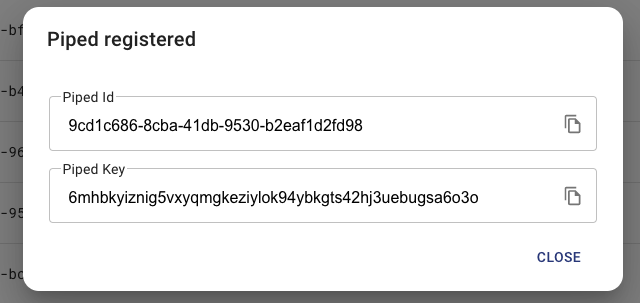
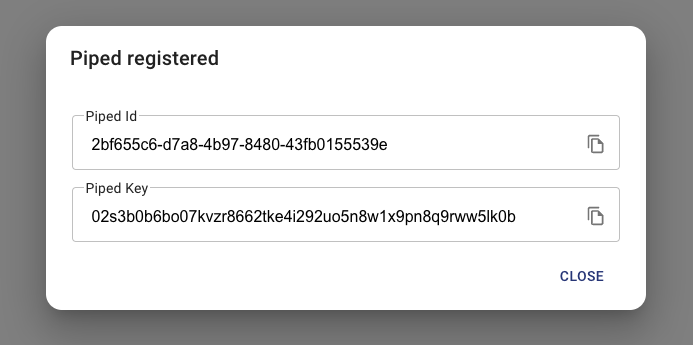
Docs for quickstart

Changed region(s): [[0.0, 0.0, 1.0, 0.9802]]

diff --git a/docs/content/en/docs-dev/quickstart/_index.md b/docs/content/en/docs-dev/quickstart/_index.md
@@ -11,35 +11,41 @@ This page is a guideline for installing PipeCD into your Kubernetes cluster and 
 Note: It's not required to install the PipeCD control plane to the cluster where your applications are running. Please read this [blog post](/blog/2021/12/29/pipecd-best-practice-01-operate-your-own-pipecd-cluster/) to understand more about PipeCD in real life use cases.
 
 ### Prerequisites
-- Having a Kubernetes cluster
-- Installed [kubectl](https://kubernetes.io/docs/tasks/tools/install-kubectl/) and [Helm](https://helm.sh/docs/intro/install/) (3.8.0 or later)
+- Having a Kubernetes cluster and connect to it via [kubectl](https://kubernetes.io/docs/tasks/tools/install-kubectl/).
 - Forked the [Examples](https://github.com/pipe-cd/examples) repository
 
-### 1. Installing control plane
+### 1. Installing PipeCD client
+
+The official PipeCD client named `pipectl` can be installed using the following command
 
 ``` console
-helm install pipecd oci://ghcr.io/pipe-cd/chart/pipecd --version {{< blocks/latest_version >}} \
-  --namespace pipecd --create-namespace \
-  --values https://raw.githubusercontent.com/pipe-cd/pipecd/{{< blocks/latest_version >}}/quickstart/control-plane-values.yaml
+OS="darwin" # or "linux"
+curl -Lo ./pipectl https://github.com/pipe-cd/pipecd/releases/download/{{< blocks/latest_version >}}/pipectl_{{< blocks/latest_version >}}_${OS}_amd64
 ```
 
-Once installed, use `kubectl port-forward` to expose the web console on your localhost:
+Then make the pipectl binary executable
 
 ``` console
-kubectl -n pipecd port-forward svc/pipecd 8080
+chmod +x ./pipectl
 ```
 
-The PipeCD web console will be available at [http://localhost:8080](http://localhost:8080). To login, you can use the configured static admin account as below:
-- project name: `quickstart`
+### 2. Installing PipeCD's component with pipectl
+
+We can simply use __pipectl quickstart__ command to start the PipeCD installation process and follow the instruction
+
+```console
+./pipectl quickstart --version {{< blocks/latest_version >}}
+```
+
+Follow the instruction, the PipeCD control plane will be available at [http://localhost:8080](http://localhost:8080) and pipectl command will open the PipeCD console automatically on your browser.
+
+To login, you can use the configured static admin account as below:
 - username: `hello-pipecd`
 - password: `hello-pipecd`
 
-![](/images/quickstart-login.png)
+![](/images/quickstart-login-form.png)
 
-### 2. Installing a `piped`
-Before running a piped, you have to register it on the web and take the generated ID and Key strings.
-
-Navigate to the `Piped` tab on the same page as before, click on the `Add` button. Then you enter as:
+After logged in successfully, the browser will redirect you to the PipeCD console settings page at `piped` settings tab. You will find the `+ADD` button on the top of this page, click there and insert information to register the deployment runner for PipeCD (called `piped`).
 
 ![](/images/quickstart-adding-piped.png)
 
@@ -48,15 +54,23 @@ Be sure to keep a copy for later use.
 
 ![](/images/quickstart-piped-registered.png)
 
-Then complete the installation by running the following command after replacing `{PIPED_ID}`, `{PIPED_KEY}`, `{FORKED_GITHUB_ORG}` with what you just got:
+Use the above value to fill the form showing in the terminal you run `pipectl quickstart` command
 
-``` console
-helm install piped oci://ghcr.io/pipe-cd/chart/piped --version {{< blocks/latest_version >}} \
-  --namespace pipecd \
-  --set quickstart.enabled=true \
-  --set quickstart.pipedId={PIPED_ID} \
-  --set secret.data.piped-key={PIPED_KEY} \
-  --set quickstart.gitRepoRemote=https://github.com/{FORKED_GITHUB_ORG}/examples.git
+```console
+...
+Fill up your registered Piped information:
+✔ ID: 2bf655c6-d7a8-4b97-8480-43fb0155539e█
+Key: 02s3b0b6bo07kvzr8662tke4i292uo5n8w1x9pn8q9rww5lk0b
+GitRemoteRepo: https://github.com/{FORKED_GITHUB_ORG}/examples.git
+
+```
+
+That's all!
+
+Note: The __pipectl quickstart__ command will keep running to expose your PipeCD console on `localhost:8080`. If you stop the process, the installed PipeCD components will not lost, you can access to the PipeCD console anytime using __kubectl port-forward__ command
+
+```console
+kubectl -n pipecd port-forward svc/pipecd 8080
 ```
 
 ### 3. Registering a kubernetes application
@@ -89,10 +103,7 @@ After a short wait, a new deployment will be started to update to `v0.2.0`.
 When you’re finished experimenting with PipeCD, you can uninstall with:
 
 ``` console
-helm -n pipecd uninstall piped
-helm -n pipecd uninstall pipecd
-kubectl delete deploy canary -n pipecd
-kubectl delete svc canary -n pipecd
+./pipectl quickstart --uninstall
 ```
 
 ### What's next?
